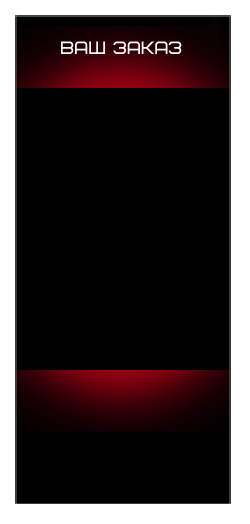
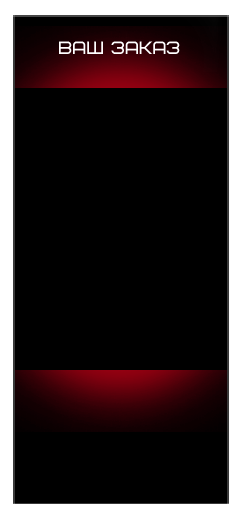
step
осталось карточку доделать

diff --git a/nbf.z1q.ru/style/main.css b/nbf.z1q.ru/style/main.css
@@ -391,15 +391,18 @@ A:hover.Menu-32, A.Sel.Menu-32 {
 	position: absolute;
 	font-weight: bold;
 	font-size: 14px;
-	color: #e61e25;
-	padding-left: 40px;
-	padding-top: 3px;
-	margin-left: 20px;
-	margin-top: 8px;
+	color: #ECD714;
+	padding-left: 7px;
+	margin-left: 21px;
+	margin-top: 14px;
 	height: 18px;
-	width: 350px;
-	background: url('Title.png') no-repeat 0 2px;
+	width: auto;
+	background-repeat: repeat-x;
+	background-position: 0 2px;
+	border-radius: 3px;
 	overflow: hidden;
+	padding-right: 7px;
+	background-color: #FF0004;
 }
 
 #Content .Title UL{
@@ -731,7 +734,7 @@ UL.Pizza LI .AddCart33{
 	border: none;
 	cursor: pointer;
 	height: 41px;
-	margin-left: -5px;
+	margin-left: -9px;
 	margin-top: -22px;
 	padding: 0;
 	position: absolute;
@@ -906,8 +909,8 @@ UL.Items LI.VeryFull SPAN {
 #ItemList dl{
 	display: block;
 	width: 212px;
-	height: 55px;
-	border-bottom: 2px solid red;
+	height: 56px;
+	border-bottom: 1px solid #4B4B4B;
 	color:white;
 }
 #ItemList dl.empty{
@@ -1028,9 +1031,9 @@ UL.Items LI.VeryFull SPAN {
 #jcart-checkout{
 	display: block;
 	margin: 0 auto;
-	margin-top: 8px;
+	margin-top: 0px;
 	height: 33px;
-	width: 183px;
+	width: 191px;
 	background: url('Order.gif') no-repeat 0 0;
 	cursor: pointer;
 	padding: 0;
@@ -1247,7 +1250,7 @@ color: gray;
 	line-height: 8px;
 	font-size: 8px;
 	margin-left: 0px;
-
+	clear: both;
 }
 
 .pizzapricered{
@@ -1451,8 +1454,8 @@ font-size:13px;
 .rv{
 	
 	position:absolute;
-	top:159px;
-	left: 15px;
+	top:165px;
+	left: 28px;
 	height:50px;
 	width:200px;
 	}
